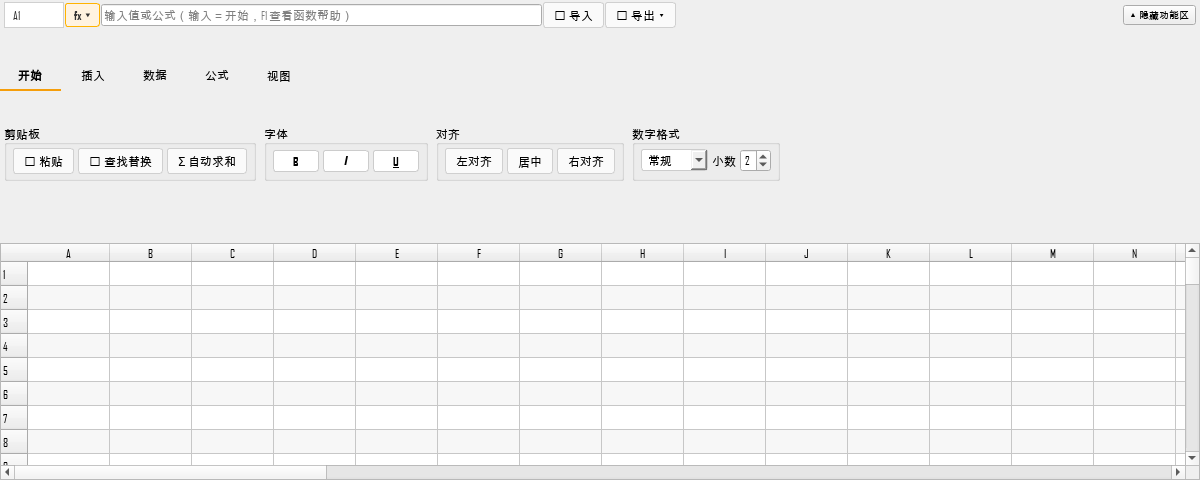
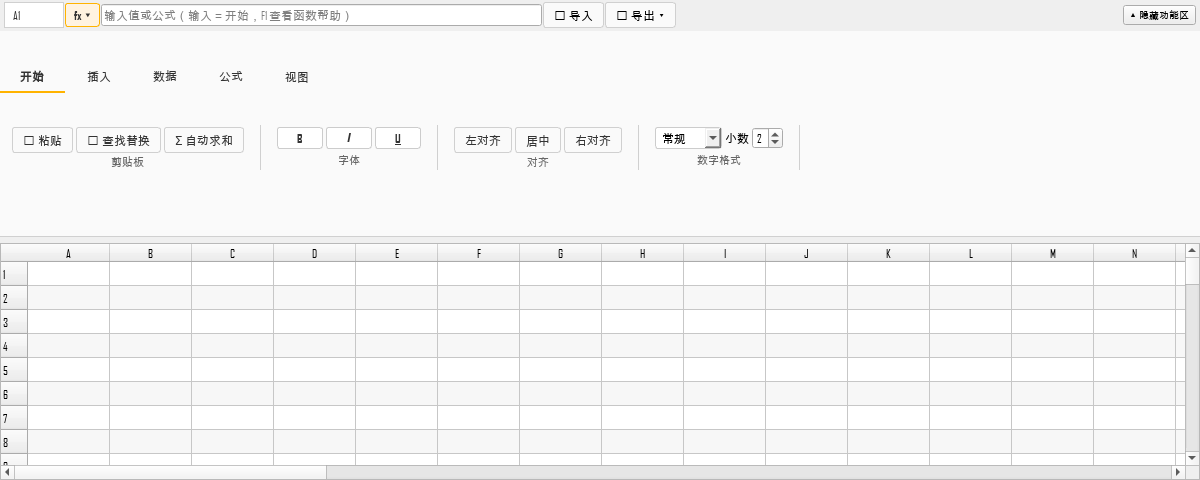
feat(beesheet): 功能区 UI 细化，贴近 WPS（v5.4.7）

diff --git a/beeoffice/plugins/beesheet_ui_mixin.py b/beeoffice/plugins/beesheet_ui_mixin.py
@@ -44,7 +44,7 @@ from PySide6.QtWidgets import (
     QWidget, QVBoxLayout, QHBoxLayout, QTableView, QHeaderView,
     QLineEdit, QLabel, QPushButton, QComboBox, QSpinBox,
     QListWidget, QAbstractItemView, QProgressBar, QAbstractButton,
-    QGroupBox, QTabBar, QStackedWidget,
+    QGroupBox, QTabBar, QStackedWidget, QFrame, QSizePolicy,
 )
 from PySide6.QtCore import Qt, QTimer
 from PySide6.QtGui import QFont, QShortcut, QKeySequence
@@ -57,6 +57,26 @@ from beeoffice.theme import Theme
 
 def _t():
     return Theme.tokens()
+
+
+class RibbonGroup(QWidget):
+    """WPS 风格功能区组：按钮在上，组名在下，无重边框。"""
+
+    def __init__(self, title: str, parent=None):
+        super().__init__(parent)
+        outer = QVBoxLayout(self)
+        outer.setContentsMargins(8, 2, 8, 1)
+        outer.setSpacing(1)
+        self.body = QHBoxLayout()
+        self.body.setSpacing(3)
+        self.body.setContentsMargins(0, 0, 0, 0)
+        outer.addLayout(self.body)
+        self.title = QLabel(title)
+        self.title.setAlignment(Qt.AlignCenter)
+        self.title.setStyleSheet(f"color:{_t()['muted']};font-size:11px;")
+        outer.addWidget(self.title)
+        self.setSizePolicy(QSizePolicy.Preferred, QSizePolicy.Maximum)
+        self.setMaximumHeight(76)
 
 
 class UIMixin:
@@ -261,11 +281,25 @@ class UIMixin:
         self._ribbon_tabs.setFixedHeight(32)
         self._ribbon_tabs.setExpanding(False)
         self._ribbon_tabs.setDrawBase(False)
+        _accent = _t()['accent']
+        _accent_light = _t()['accent_light']
+        _surface = _t()['surface_alt']
+        _border = _t()['border']
+        _text = _t()['text']
+        self._ribbon.setObjectName("BeeRibbon")
+        self._ribbon.setStyleSheet(
+            f"QWidget#BeeRibbon{{background:{_surface};border-bottom:1px solid {_border};}}"
+            f"QPushButton{{background:transparent;border:1px solid transparent;"
+            f"border-radius:4px;padding:5px 9px;color:{_text};}}"
+            f"QPushButton:hover{{background:{_accent_light};border-color:{_border};}}"
+            f"QPushButton:pressed{{background:{_accent};color:white;}}"
+            f"QPushButton:checked{{background:{_accent};color:white;}}"
+        )
         self._ribbon_tabs.setStyleSheet(
-            "QTabBar::tab{padding:6px 18px;margin-right:2px;"
-            "background:transparent;border:none;border-bottom:2px solid transparent;}"
-            "QTabBar::tab:selected{border-bottom:2px solid #F59E0B;font-weight:bold;}"
-            "QTabBar::tab:hover{background:#FEF3C7;}"
+            f"QTabBar::tab{{padding:7px 20px;margin-right:2px;background:transparent;"
+            f"border:none;border-bottom:3px solid transparent;color:{_text};}}"
+            f"QTabBar::tab:selected{{border-bottom:3px solid {_accent};font-weight:bold;}}"
+            f"QTabBar::tab:hover{{background:{_accent_light};}}"
         )
         ribbon_layout.addWidget(self._ribbon_tabs)
 
@@ -286,14 +320,14 @@ class UIMixin:
             return page_layout
 
         def add_group(page_layout, title):
-            group = QGroupBox(title)
-            group_layout = QHBoxLayout(group)
-            group_layout.setContentsMargins(6, 4, 6, 4)
-            group_layout.setSpacing(4)
-            group_layout.setAlignment(Qt.AlignLeft | Qt.AlignVCenter)
-            group.setMaximumHeight(72)
+            group = RibbonGroup(title)
             page_layout.addWidget(group)
-            return group_layout
+            sep = QFrame()
+            sep.setFrameShape(QFrame.VLine)
+            sep.setStyleSheet(f"color:{_t()['border']};")
+            sep.setFixedWidth(1)
+            page_layout.addWidget(sep)
+            return group.body
 
         fmt_btn_style = (
             "QPushButton{background:#FFF;border:1px solid #CCC;"

diff --git a/tests/qt/test_beesheet_ribbon.py b/tests/qt/test_beesheet_ribbon.py
@@ -1,6 +1,7 @@
 """BeeSheet 分类功能区（WPS 风格 Ribbon）测试。"""
 import pandas as pd
-from PySide6.QtWidgets import QGroupBox, QPushButton
+from PySide6.QtWidgets import QPushButton
+from beeoffice.plugins.beesheet_ui_mixin import RibbonGroup
 
 from beeoffice.plugins.beesheet import BeeSheetView
 
@@ -27,7 +28,7 @@ def test_ribbon_categories(qtbot):
 
 def test_ribbon_groups(qtbot):
     sheet = make_sheet(qtbot)
-    titles = {g.title() for g in sheet._ribbon.findChildren(QGroupBox)}
+    titles = {g.title.text() for g in sheet._ribbon.findChildren(RibbonGroup)}
     assert {"剪贴板", "字体", "对齐", "数字格式"} <= titles
     assert {"对象", "数据工具"} <= titles
     assert {"排序和筛选"} <= titles

diff --git a/docs/BeeSheet-分类功能区-2026-11-13.md b/docs/BeeSheet-分类功能区-2026-11-13.md
@@ -34,9 +34,21 @@
 
 ![BeeSheet Ribbon](beesheet-ribbon-2026-11-13.png)
 
+数据页示例：
+
+![BeeSheet 数据页](beesheet-ribbon-data-2026-11-13.png)
+
 初始网格（A–AZ，5000 行）：
 
 ![BeeSheet 初始网格](beesheet-grid-2026-11-13.png)
+
+## UI 细化
+
+- 组名改为底部小字（WPS 风格），去掉重边框；
+- 组之间加细竖线分隔；
+- Tab 选中使用主题 accent 下划线；
+- 按钮 hover/pressed/checked 统一主题样式；
+- 功能区背景使用 surface_alt，与表格区分层。
 
 ## 兼容性
 

diff --git a/CHANGELOG.md b/CHANGELOG.md
@@ -16,6 +16,7 @@
 - 默认列宽 82px、行高 24px，可视列数与 WPS 更接近；
 - 新增 5 个分类页签：开始 / 插入 / 数据 / 公式 / 视图；
 - 每个分类按功能分组（剪贴板、字体、对齐、数字格式、对象、函数、名称与审计、冻结窗格等）；
+- 组名改为底部小字、去重边框、组间竖线；Tab/按钮使用主题 accent 状态。
 - 隐藏/展开功能区按钮保留；
 - 删除旧的无引用翻译键 8 个。
 
